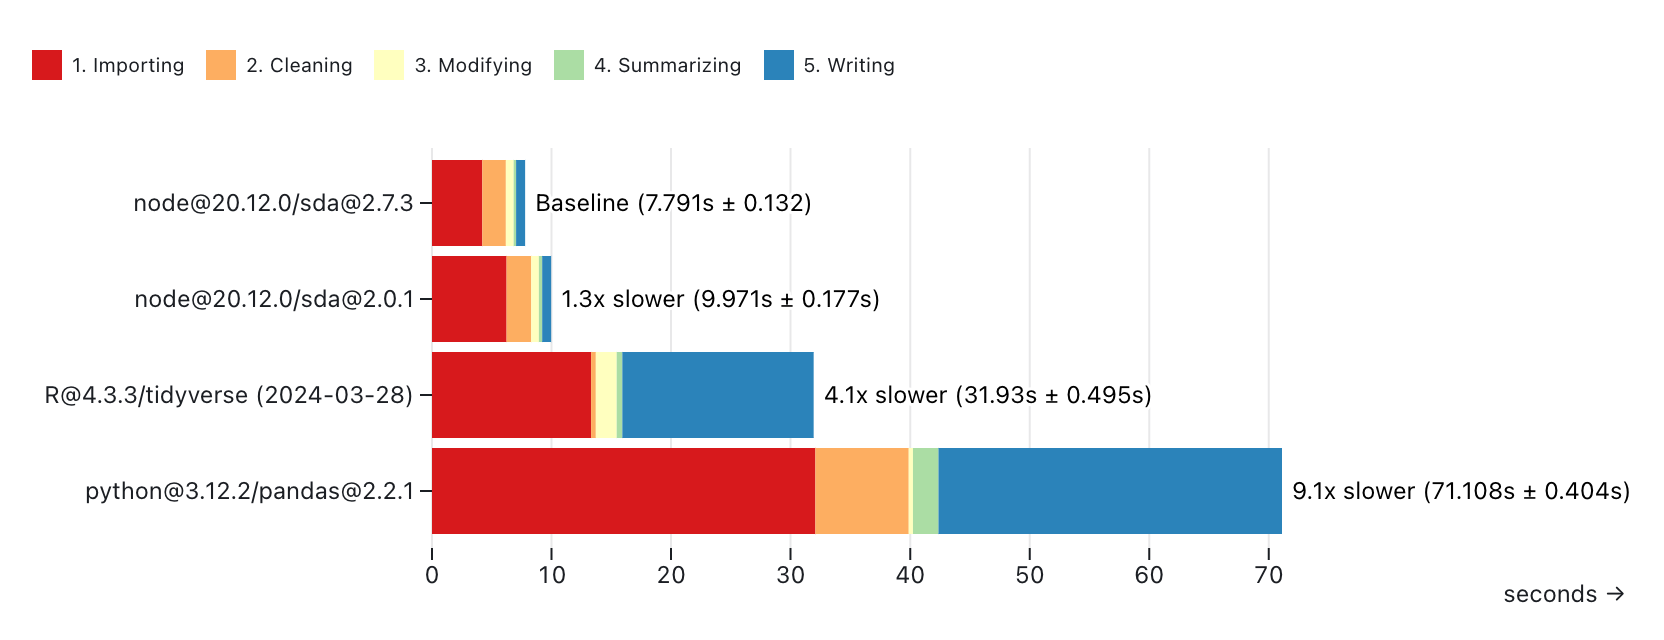
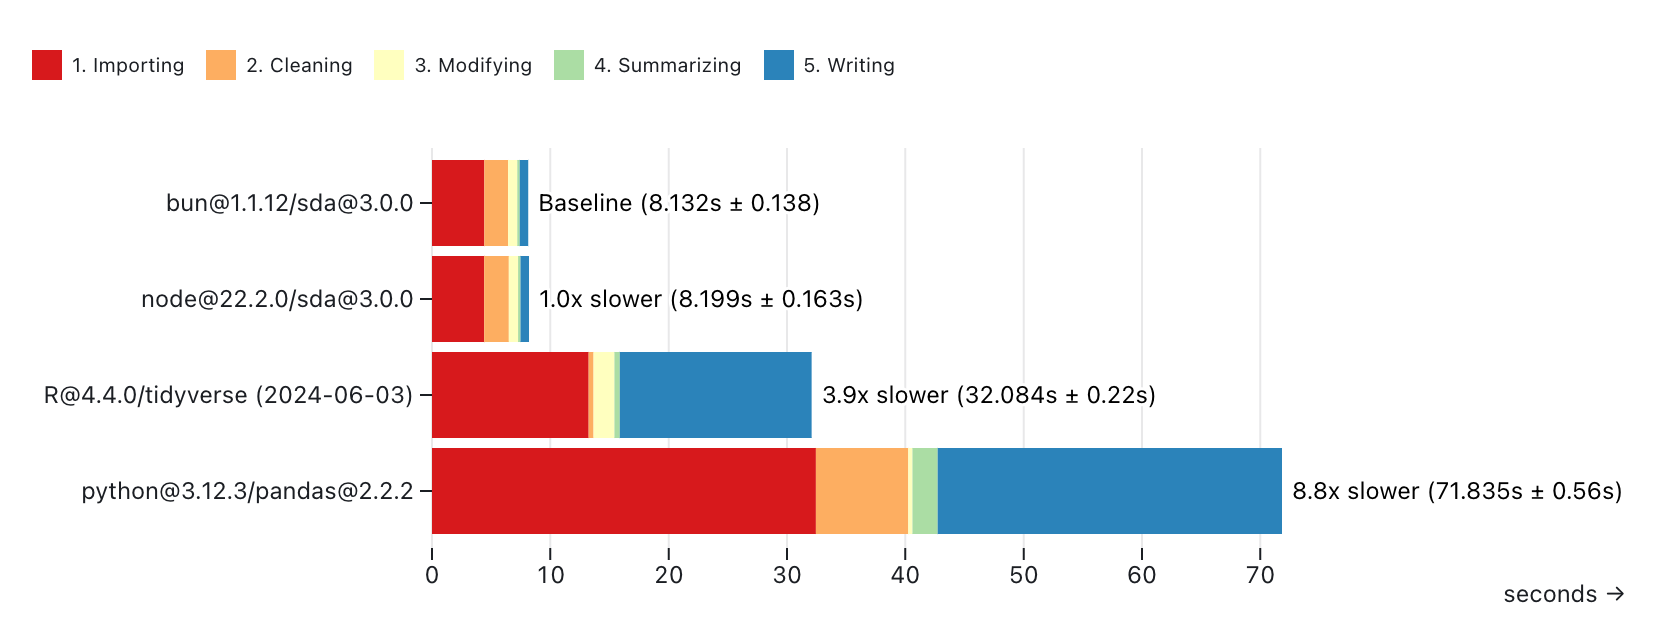
updating doc

diff --git a/README.md b/README.md
@@ -62,7 +62,7 @@ With _ahccd-samples.csv_:
 -   971,804 rows
 -   19,436,080 data points
 
-**simple-data-analysis@1.8.1** was the slowest, but **simple-data-analysis@2.x.x** versions are now the fastest.
+**simple-data-analysis@3.0.0** is the fastest.
 
 ![A chart showing the processing duration of multiple scripts in various languages](./assets/small-file.png)
 
@@ -76,9 +76,7 @@ With _ahccd.csv_:
 -   22,051,025 rows
 -   441,020,500 data points
 
-The file was too big for **simple-data-analysis@1.8.1**, so it's not included here.
-
-While **simple-data-analysis@2.0.1** was already fast, **simple-data-analysis@2.7.3** shines even more with big files.
+**simple-data-analysis@3.0.0** is the fastest here as well.
 
 ![A chart showing the processing duration of multiple scripts in various languages](./assets/big-file.png)
 
